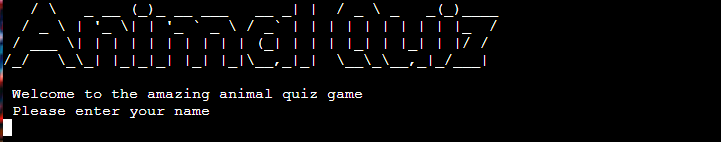
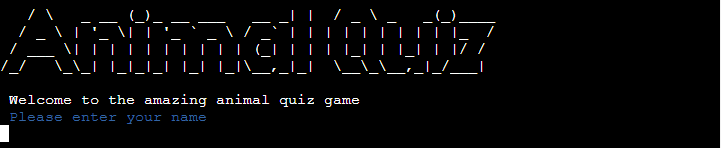
fix linebreaks in option section

Changed region(s): [[0.0, 0.0, 0.7018, 1.0]]

diff --git a/run.py b/run.py
@@ -61,20 +61,21 @@ def game_start():
     while True:
         global playername
         playername = input(
-             " Welcome to the amazing animal quiz game\n" + Fore.BLUE + " Please enter your name\033[39m\n"
-         )
+            " Welcome to the amazing animal quiz game\n" +
+            Fore.BLUE + " Please enter your name\033[39m\n"
+        )
         if len(playername) <= 20 and len(playername) >= 1:
             update_scoreboard([playername], "scoreboard")
             option_screen()
-            break #exit the loop if the name is valid
+            break  # exit the loop if the name is valid
         else:
-            if playername: # Checks if something is entered
+            if playername:  # Checks if something is entered
                 input("Please enter your name\n")
             else:
                 print(
-                Fore.RED + "ERROR!\033[39m Please enter a name with at least one but less "
-                      "than 20 characters.\n")
-
+                    Fore.RED +
+                    "ERROR!\033[39m Please enter a name with at least one but less "
+                    "than 20 characters.\n")
 
 
 """
@@ -88,14 +89,14 @@ def option_screen():
     choice = ""
     while True:
         print(f'\033[2J')
-        print(Fore.BLUE +"Welcome " + playername + "." +
+        print(Fore.BLUE + "Welcome " + playername + "." +
               " You now have the following options: \033[39m\n")
         print("1) Play the quiz.\n")
         print("2) Read the rules.\n")
         print("3) High scores.\n")
         print("4) Exit to start.\n")
 
-        choice = input(Fore.BLUE +"Enter choice:  \033[39m\n")
+        choice = input(Fore.BLUE + "Enter choice:  \033[39m\n")
         choice = choice.strip()
 
         if choice == "1":
@@ -110,7 +111,7 @@ def option_screen():
             break
         else:
             print(Fore.RED + "ERROR!\033[39m Invalid option please "
-            "select 1, 2, 3 or 4\n ")
+                  "select 1, 2, 3 or 4\n ")
             input(Fore.BLUE + "Press Enter to continue...\033[39m")
 
 
@@ -118,7 +119,7 @@ def option_screen():
 def rules():
     print(f'\033[2J')
     linebreak()
-    print(Fore.BLUE + "HOW TO PLAY THE AMAZING ANIMAL QUIZ\033[39m\n")
+    print(Fore.BLUE + "HOW TO PLAY THE AMAZING ANIMAL QUIZ\033[39m")
     linebreak()
     print("Take the quiz to test your animal general knowledge.")
     print("There are 15 multiple choice questions.")
@@ -169,7 +170,8 @@ def score_grading(final_score):
     print("\n")
     print(Fore.BLUE + f"Your score was {final_score}\033[39m")
     if final_score <= 7:
-        print(Fore.BLUE + "This was less than average, you could do better\033[39m")
+        print(Fore.BLUE +
+              "This was less than average, you could do better\033[39m")
     elif final_score >= 8:
         print(Fore.BLUE + "That's above average, well done!\033[39m")
     gameover_option()
